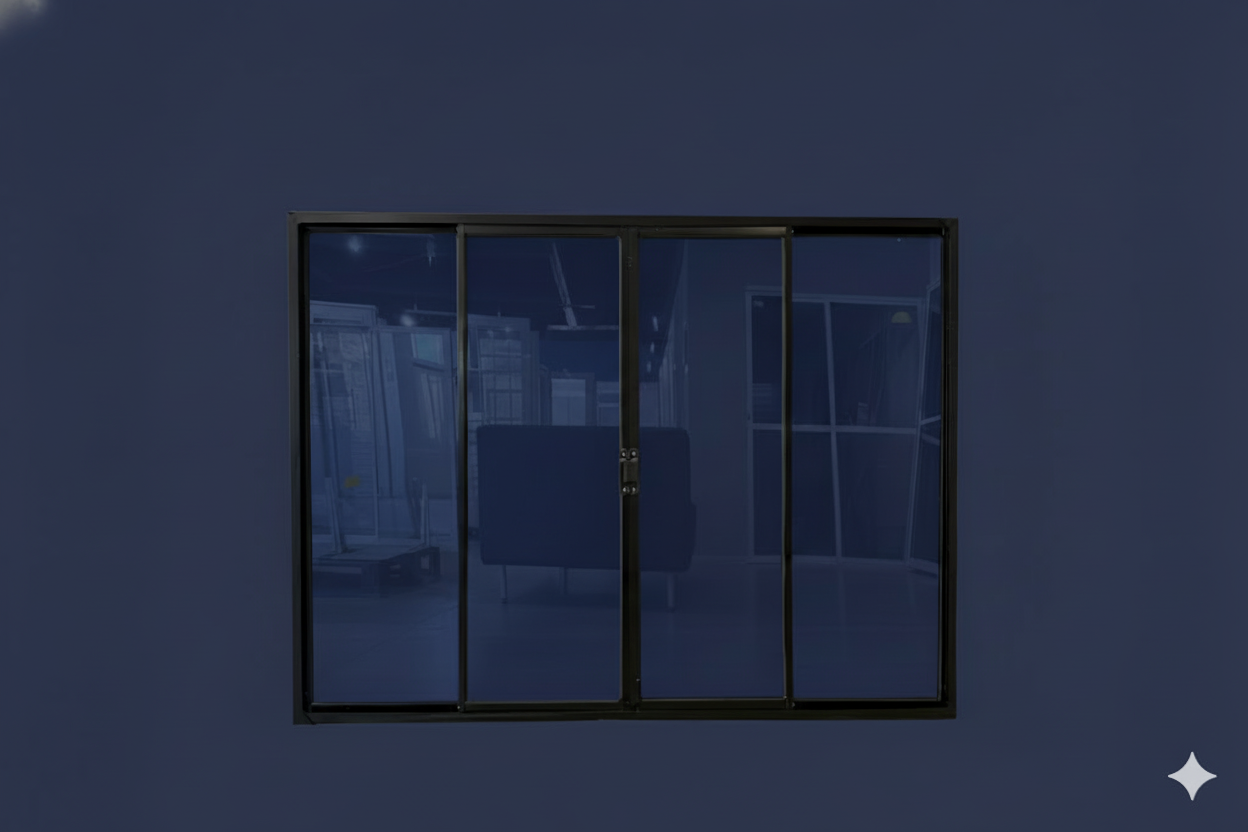
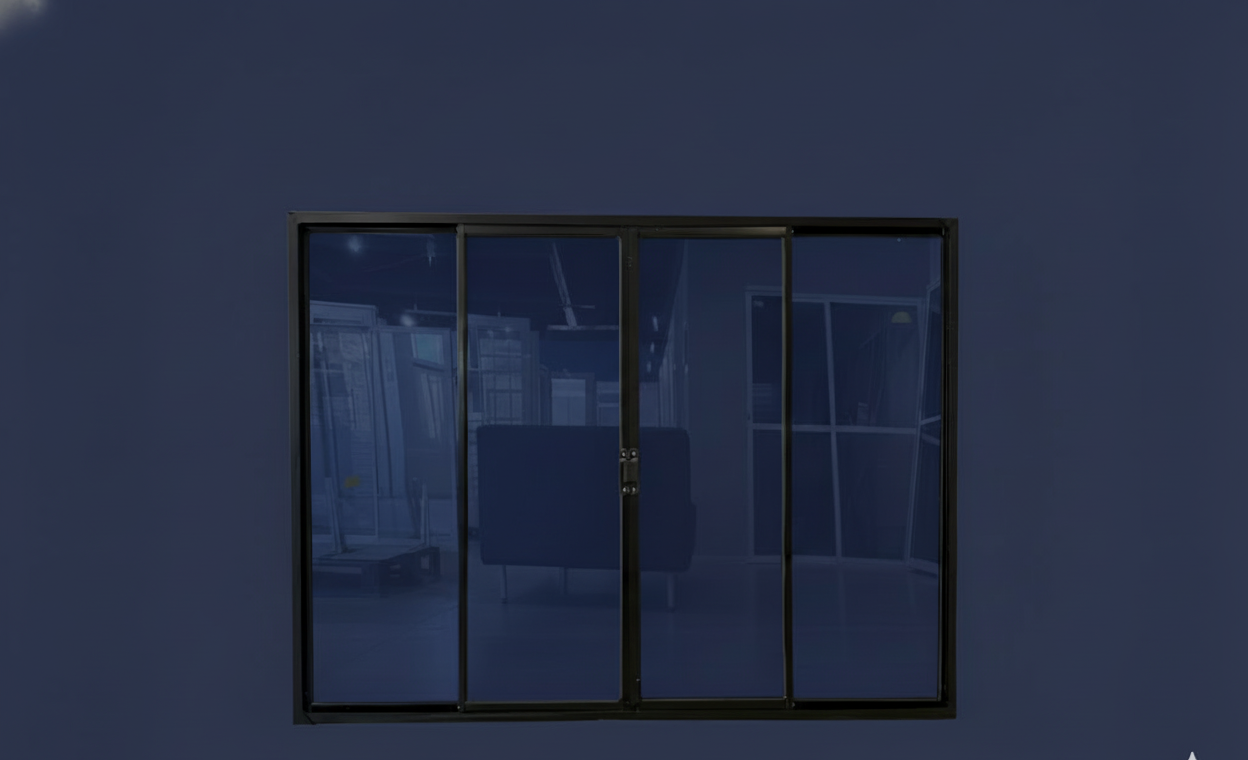
alteração das imagens e troca da imagem principal do carrossel

diff --git a/script/index.js b/script/index.js
@@ -209,8 +209,8 @@ document.addEventListener('DOMContentLoaded', () => {
         const title = norm(card.querySelector('h4')?.textContent);
         const badge = norm(card.querySelector('.badge-mini')?.textContent);
         const extra = norm(card.querySelector('.card__body p')?.textContent);
-        const line  = norm(card.getAttribute('data-line'));
-        const spec  = norm(card.getAttribute('data-spec'));
+        const line = norm(card.getAttribute('data-line'));
+        const spec = norm(card.getAttribute('data-spec'));
         if (
           (title && title.includes(q)) ||
           (badge && badge.includes(q)) ||
@@ -237,13 +237,13 @@ document.addEventListener('DOMContentLoaded', () => {
   (function initAllFilters() {
     function initFilters(scopeName) {
       const scope = $(`.filters[data-scope="${scopeName}"]`);
-      const grid  = $(`.grid[data-grid="${scopeName}"]`);
+      const grid = $(`.grid[data-grid="${scopeName}"]`);
       if (!scope || !grid) return;
 
       let currentLine = '*', currentSpec = '*';
       const lineBtns = $$('[data-filter-line]', scope);
       const specBtns = $$('[data-filter-spec]', scope);
-      const countEl  = $('[data-count]', scope);
+      const countEl = $('[data-count]', scope);
 
       function setActive(btns, attr, value) {
         btns.forEach(b => b.classList.toggle('is-active', b.getAttribute(attr) === value));
@@ -364,12 +364,12 @@ document.addEventListener('DOMContentLoaded', () => {
     const zapPhone = '5581992225420';
 
     const els = {
-      toggles: [ $('#cartToggle'), $('#cartToggleMobile') ].filter(Boolean),
+      toggles: [$('#cartToggle'), $('#cartToggleMobile')].filter(Boolean),
       close: $('#cartClose'),
       drawer: $('#cartDrawer'),
       backdrop: $('#cartBackdrop'),
       list: $('#cartList'),
-      counts: [ $('#cartCount'), $('#cartCountMobile') ].filter(Boolean),
+      counts: [$('#cartCount'), $('#cartCountMobile')].filter(Boolean),
       checkout: $('#cartCheckout'),
     };
 
@@ -500,12 +500,15 @@ document.addEventListener('DOMContentLoaded', () => {
       const url = `https://wa.me/${zapPhone}?text=${encodeURIComponent(msg)}`;
       const w = window.open(url, '_blank'); if (w && w.opener) w.opener = null;
     }
-
     // Botões globais (desktop + mobile)
-    els.toggles.forEach(b => b.addEventListener('click', open));
+    els.toggles.forEach(b => b.addEventListener('click', () => {
+      const isOpen = els.drawer?.classList.contains('is-open');
+      isOpen ? close() : open();
+    }));
     els.close?.addEventListener('click', close);
     els.backdrop?.addEventListener('click', close);
     els.checkout?.addEventListener('click', checkoutWhatsApp);
+    document.querySelector('.cart-close-fab')?.addEventListener('click', close);
 
     // Botões "Adicionar ao carrinho" dos cards
     $$('[data-add="cart"]').forEach(btn => {
@@ -518,4 +521,41 @@ document.addEventListener('DOMContentLoaded', () => {
     // Render inicial
     render();
   })();
+});
+
+/* ===========================
+   Fechar Carrinho no Mobile
+   - Botão X específico para mobile
+=========================== */
+document.addEventListener('DOMContentLoaded', function() {
+    // Fechar carrinho com botão X no mobile
+    const cartClose = document.getElementById('cartClose');
+    const cartDrawer = document.getElementById('cartDrawer');
+    const cartBackdrop = document.getElementById('cartBackdrop');
+    
+    if (cartClose) {
+        cartClose.addEventListener('click', function() {
+            cartDrawer.classList.remove('is-open');
+            cartBackdrop.classList.remove('show');
+            document.body.style.overflow = ''; // Restaurar scroll se necessário
+        });
+    }
+    
+    // Fechar ao clicar no backdrop (redundante, mas seguro)
+    if (cartBackdrop) {
+        cartBackdrop.addEventListener('click', function() {
+            cartDrawer.classList.remove('is-open');
+            cartBackdrop.classList.remove('show');
+            document.body.style.overflow = '';
+        });
+    }
+    
+    // Fechar com ESC key
+    document.addEventListener('keydown', function(e) {
+        if (e.key === 'Escape' && cartDrawer.classList.contains('is-open')) {
+            cartDrawer.classList.remove('is-open');
+            cartBackdrop.classList.remove('show');
+            document.body.style.overflow = '';
+        }
+    });
 });

diff --git a/index.html b/index.html
@@ -173,7 +173,7 @@
                 <div class="carousel" id="heroCarousel" aria-roledescription="carousel">
                     <button class="car-btn prev" aria-label="Foto anterior">‹</button>
                     <div class="car-track">
-                        <img src="assets/Story black friday ofertas exclusivas moderno vermelho preto branco.svg"
+                        <img src="assets/CRIATIVOS.png"
                             alt="Showroom Luna — foto 1" class="car-slide is-active" loading="eager" />
                         <img src="assets/Story black friday ofertas exclusivas moderno vermelho preto branco.svg"
                             alt="Showroom Luna — foto 1" class="car-slide is-active" loading="eager" />
@@ -221,6 +221,7 @@
                         <div class="badge-mini">Lambri • Branca</div>
                         <h4>Porta Lambri NEXXO — 0,80 × 2,10</h4>
                         <p class="price">a partir de R$ <span data-price>Consultar</span></p>
+                        quem busca leveza e sofisticação no ambiente.</p>
                         <div class="card-actions">
                             <button class="btn add-cart" data-add="cart">Adicionar ao carrinho</button>
                             <button class="btn" data-cta="whats">Quero este produto</button>
@@ -286,6 +287,23 @@
                     <div class="card__body">
                         <div class="badge-mini">Porta de Correr • Branca</div>
                         <h4>Porta de Correr — 1,60 × 2,10</h4>
+                        <p class="price">a partir de R$ <span data-price>Consultar</span></p>
+
+                        <div class="card-actions">
+                            <button class="btn add-cart" data-add="cart">Adicionar ao carrinho</button>
+                            <button class="btn" data-cta="whats">Quero este produto</button>
+                        </div>
+                    </div>
+                </article>
+
+
+                <article class="card" data-kind="porta" data-line="Portas de Correr">
+                    <div class="card__img img-zoom" role="img" aria-label="Porta de Correr Branca — 1,60 × 2,10"
+                        style="background-image:url('assets/portas/deCorrer/porta_de_correr_.jpg')"
+                        data-full="assets/portas/deCorrer/porta_de_correr_.jpg"></div>
+                    <div class="card__body">
+                        <div class="badge-mini">Porta de Correr • Branca</div>
+                        <h4>Porta de Correr com vidro liso <br>— 1,60 × 2,10 uma folha fixa - Quality</h4>
                         <p class="price">a partir de R$ <span data-price>Consultar</span></p>
 
                         <div class="card-actions">
@@ -732,7 +750,6 @@
 
     <!-- Modal de imagem (Lightbox) -->
     <div id="lightbox" class="lightbox" aria-hidden="true">
-        <span class="lightbox-close" role="button" aria-label="Fechar">×</span>
         <img class="lightbox-img" src="" alt="Imagem ampliada do produto">
     </div>
     <!-- Backdrop do carrinho -->
